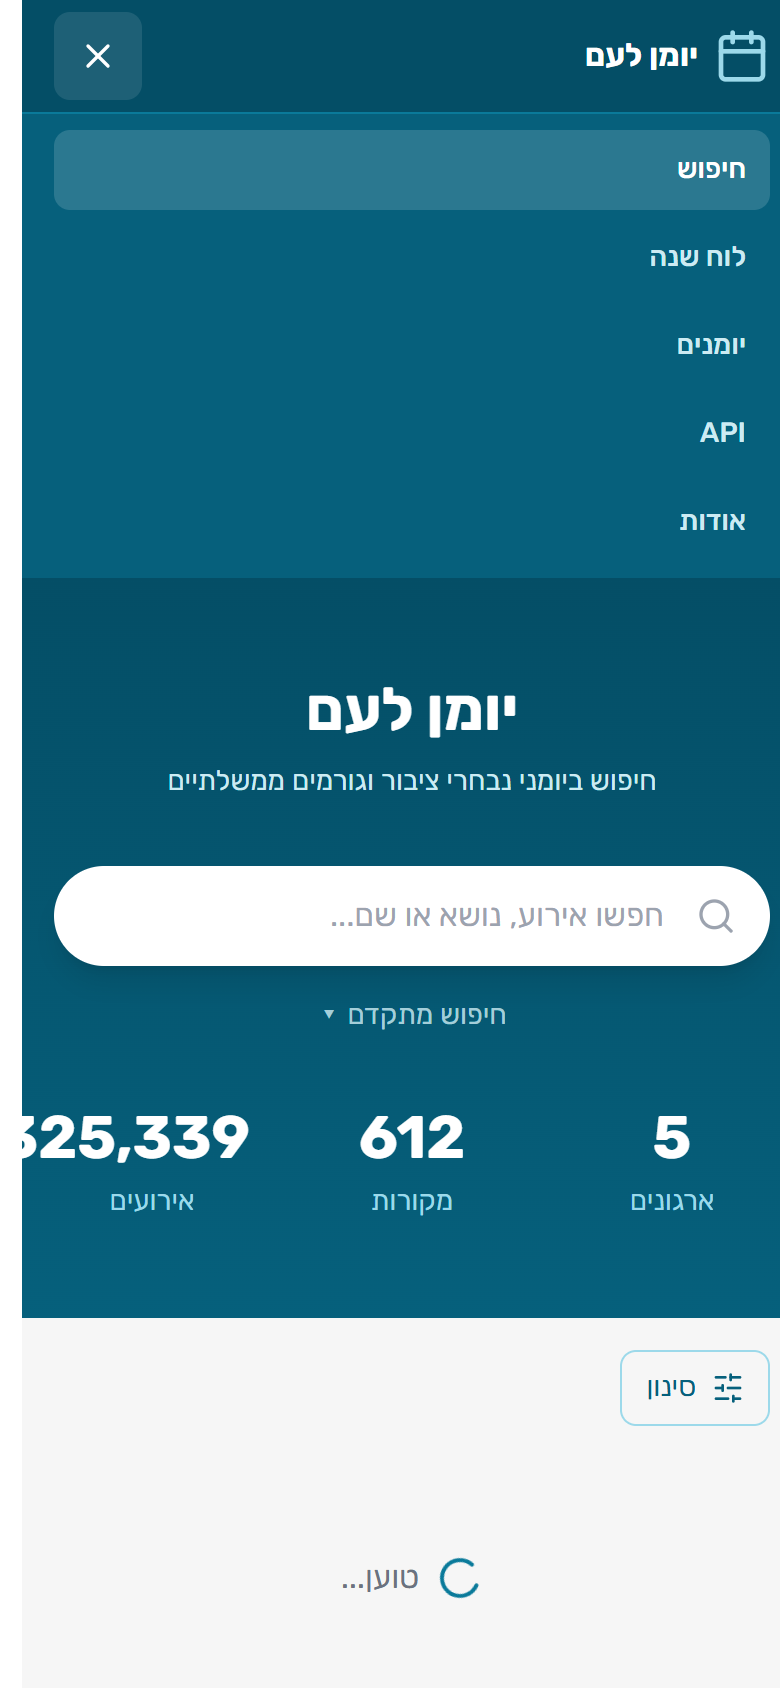
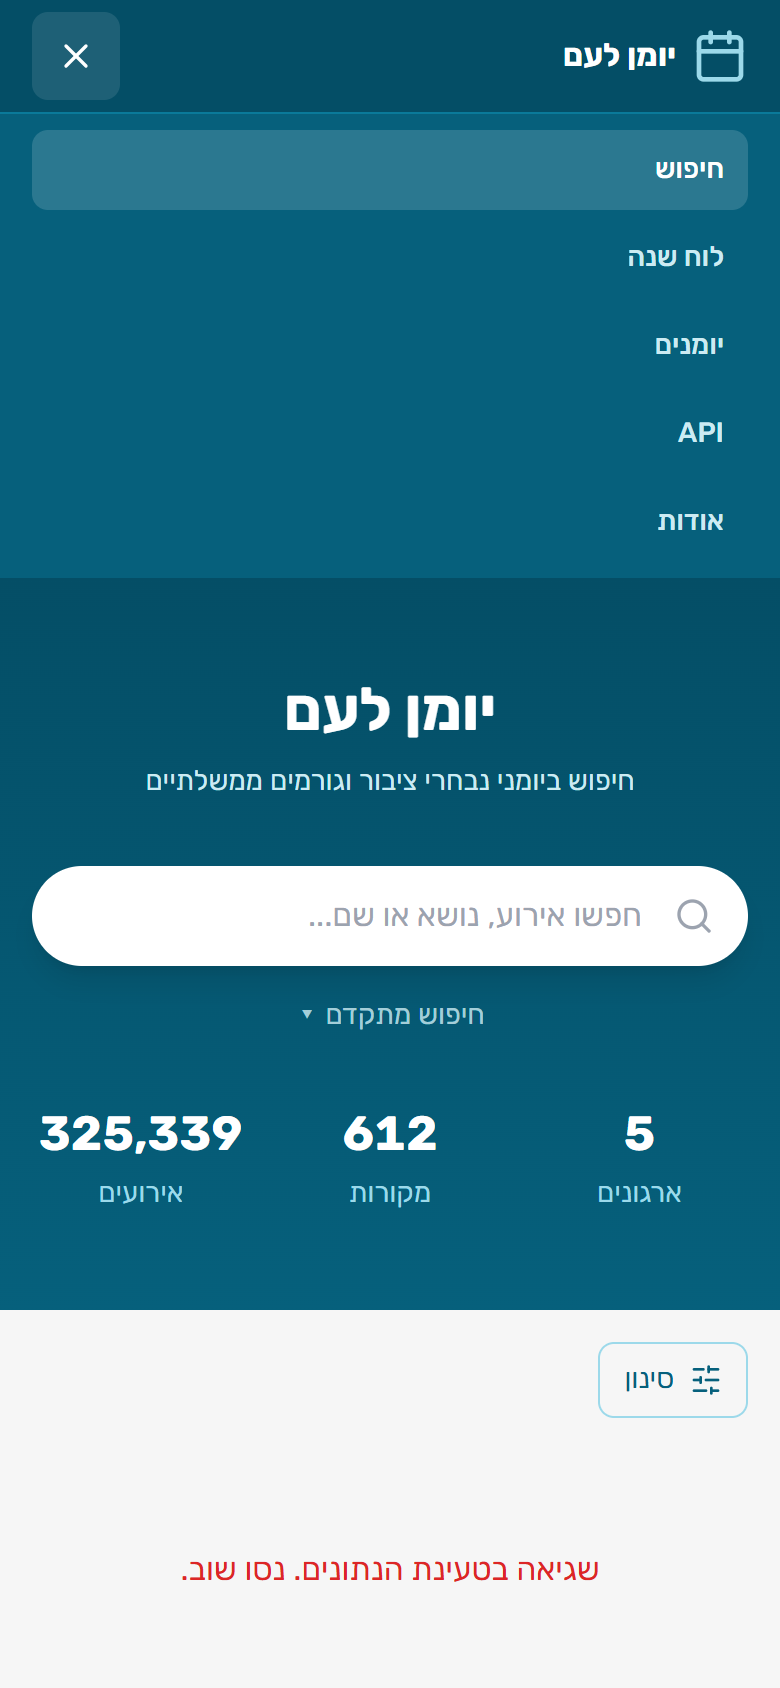
home hero: shrink stat number + gap on mobile so 6–7 digit values fit
The family canonical specifies "text-3xl sm:text-4xl" for stat numbers
and "gap-8 sm:gap-12" for the 3-column stats grid. At 390px viewport
with px-4 hero padding, that leaves ~108 px per column — not enough for
"325,339 אירועים" at 30 px bold, so the rightmost (in RTL) column was
clipped at the viewport edge.

Tweaks (mobile-only — sm+ unchanged, canonical preserved):
- Stats container: gap-4 sm:gap-12 (was gap-8 sm:gap-12)
- StatBadge number: text-2xl sm:text-4xl (was text-3xl sm:text-4xl)
- StatBadge number gets tabular-nums for cleaner digit alignment
- StatBadge wrapper gets min-w-0 so it can shrink inside the grid track

Refreshed 390×844 screenshots show all three columns fully visible.

If Ocoi/OVER hit the same overflow with similarly large numbers, the
family canonical itself should adopt the smaller mobile size; flagged
in #15's description.

diff --git a/client/src/pages/SearchPage.tsx b/client/src/pages/SearchPage.tsx
@@ -150,10 +150,12 @@ export function SearchPage() {
             </>
           )}
 
-          {/* Stats — 3 columns, family contract */}
+          {/* Stats — 3 columns, family contract.
+              gap-4 on mobile (was gap-8) so 6-7 digit numbers fit at 390px;
+              gap-12 from sm+ preserves the canonical look. */}
           {stats && (stats.total_events > 0 || stats.total_sources > 0) && (
             <div
-              className="grid grid-cols-3 gap-8 sm:gap-12 max-w-2xl mx-auto"
+              className="grid grid-cols-3 gap-4 sm:gap-12 max-w-2xl mx-auto"
               role="region"
               aria-label="סטטיסטיקות"
             >
@@ -279,8 +281,12 @@ export function SearchPage() {
 
 function StatBadge({ value, label }: { value: number; label: string }) {
   return (
-    <div className="text-center">
-      <div className="text-3xl sm:text-4xl font-bold text-white">
+    <div className="text-center min-w-0">
+      {/* text-2xl on mobile (was -3xl in the family canonical) so 6-7 digit
+          values like "325,339" fit on a 390-wide viewport across all three
+          columns. Canonical text-4xl preserved from sm+. tabular-nums keeps
+          digits monospaced for cleaner alignment between rows. */}
+      <div className="text-2xl sm:text-4xl font-bold text-white tabular-nums">
         {value.toLocaleString('he-IL')}
       </div>
       <div className="text-primary-200 text-sm mt-1">{label}</div>